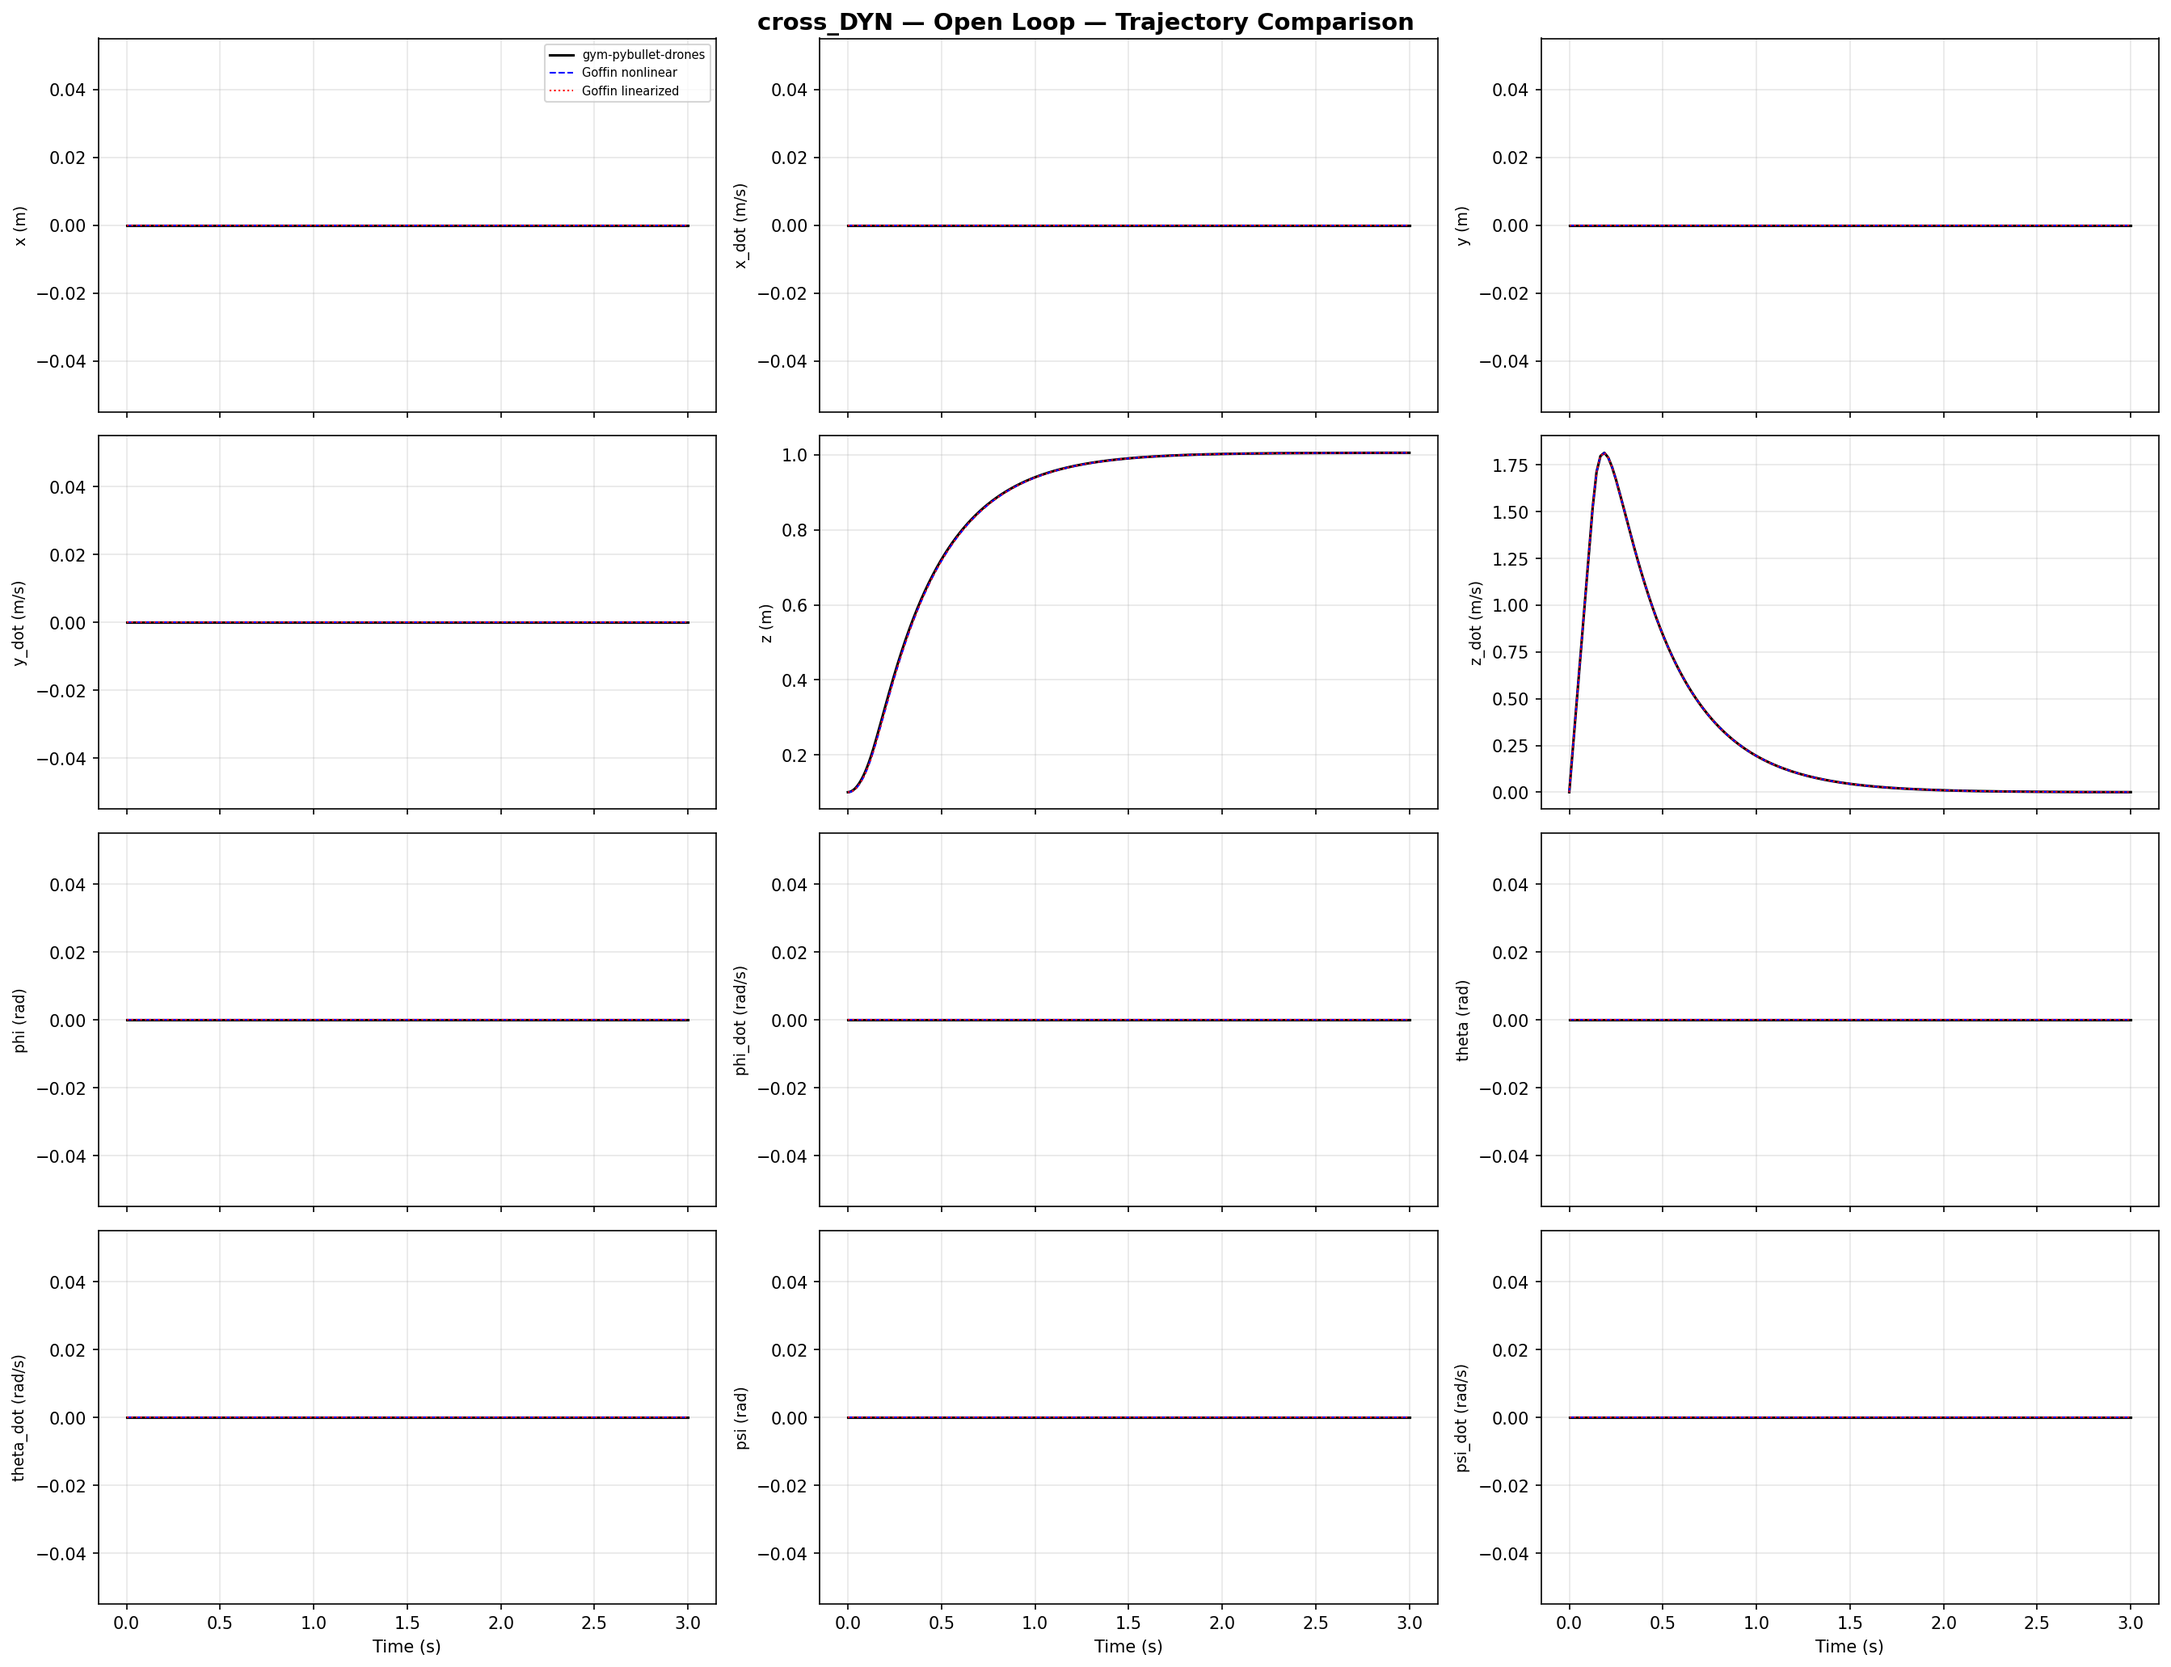
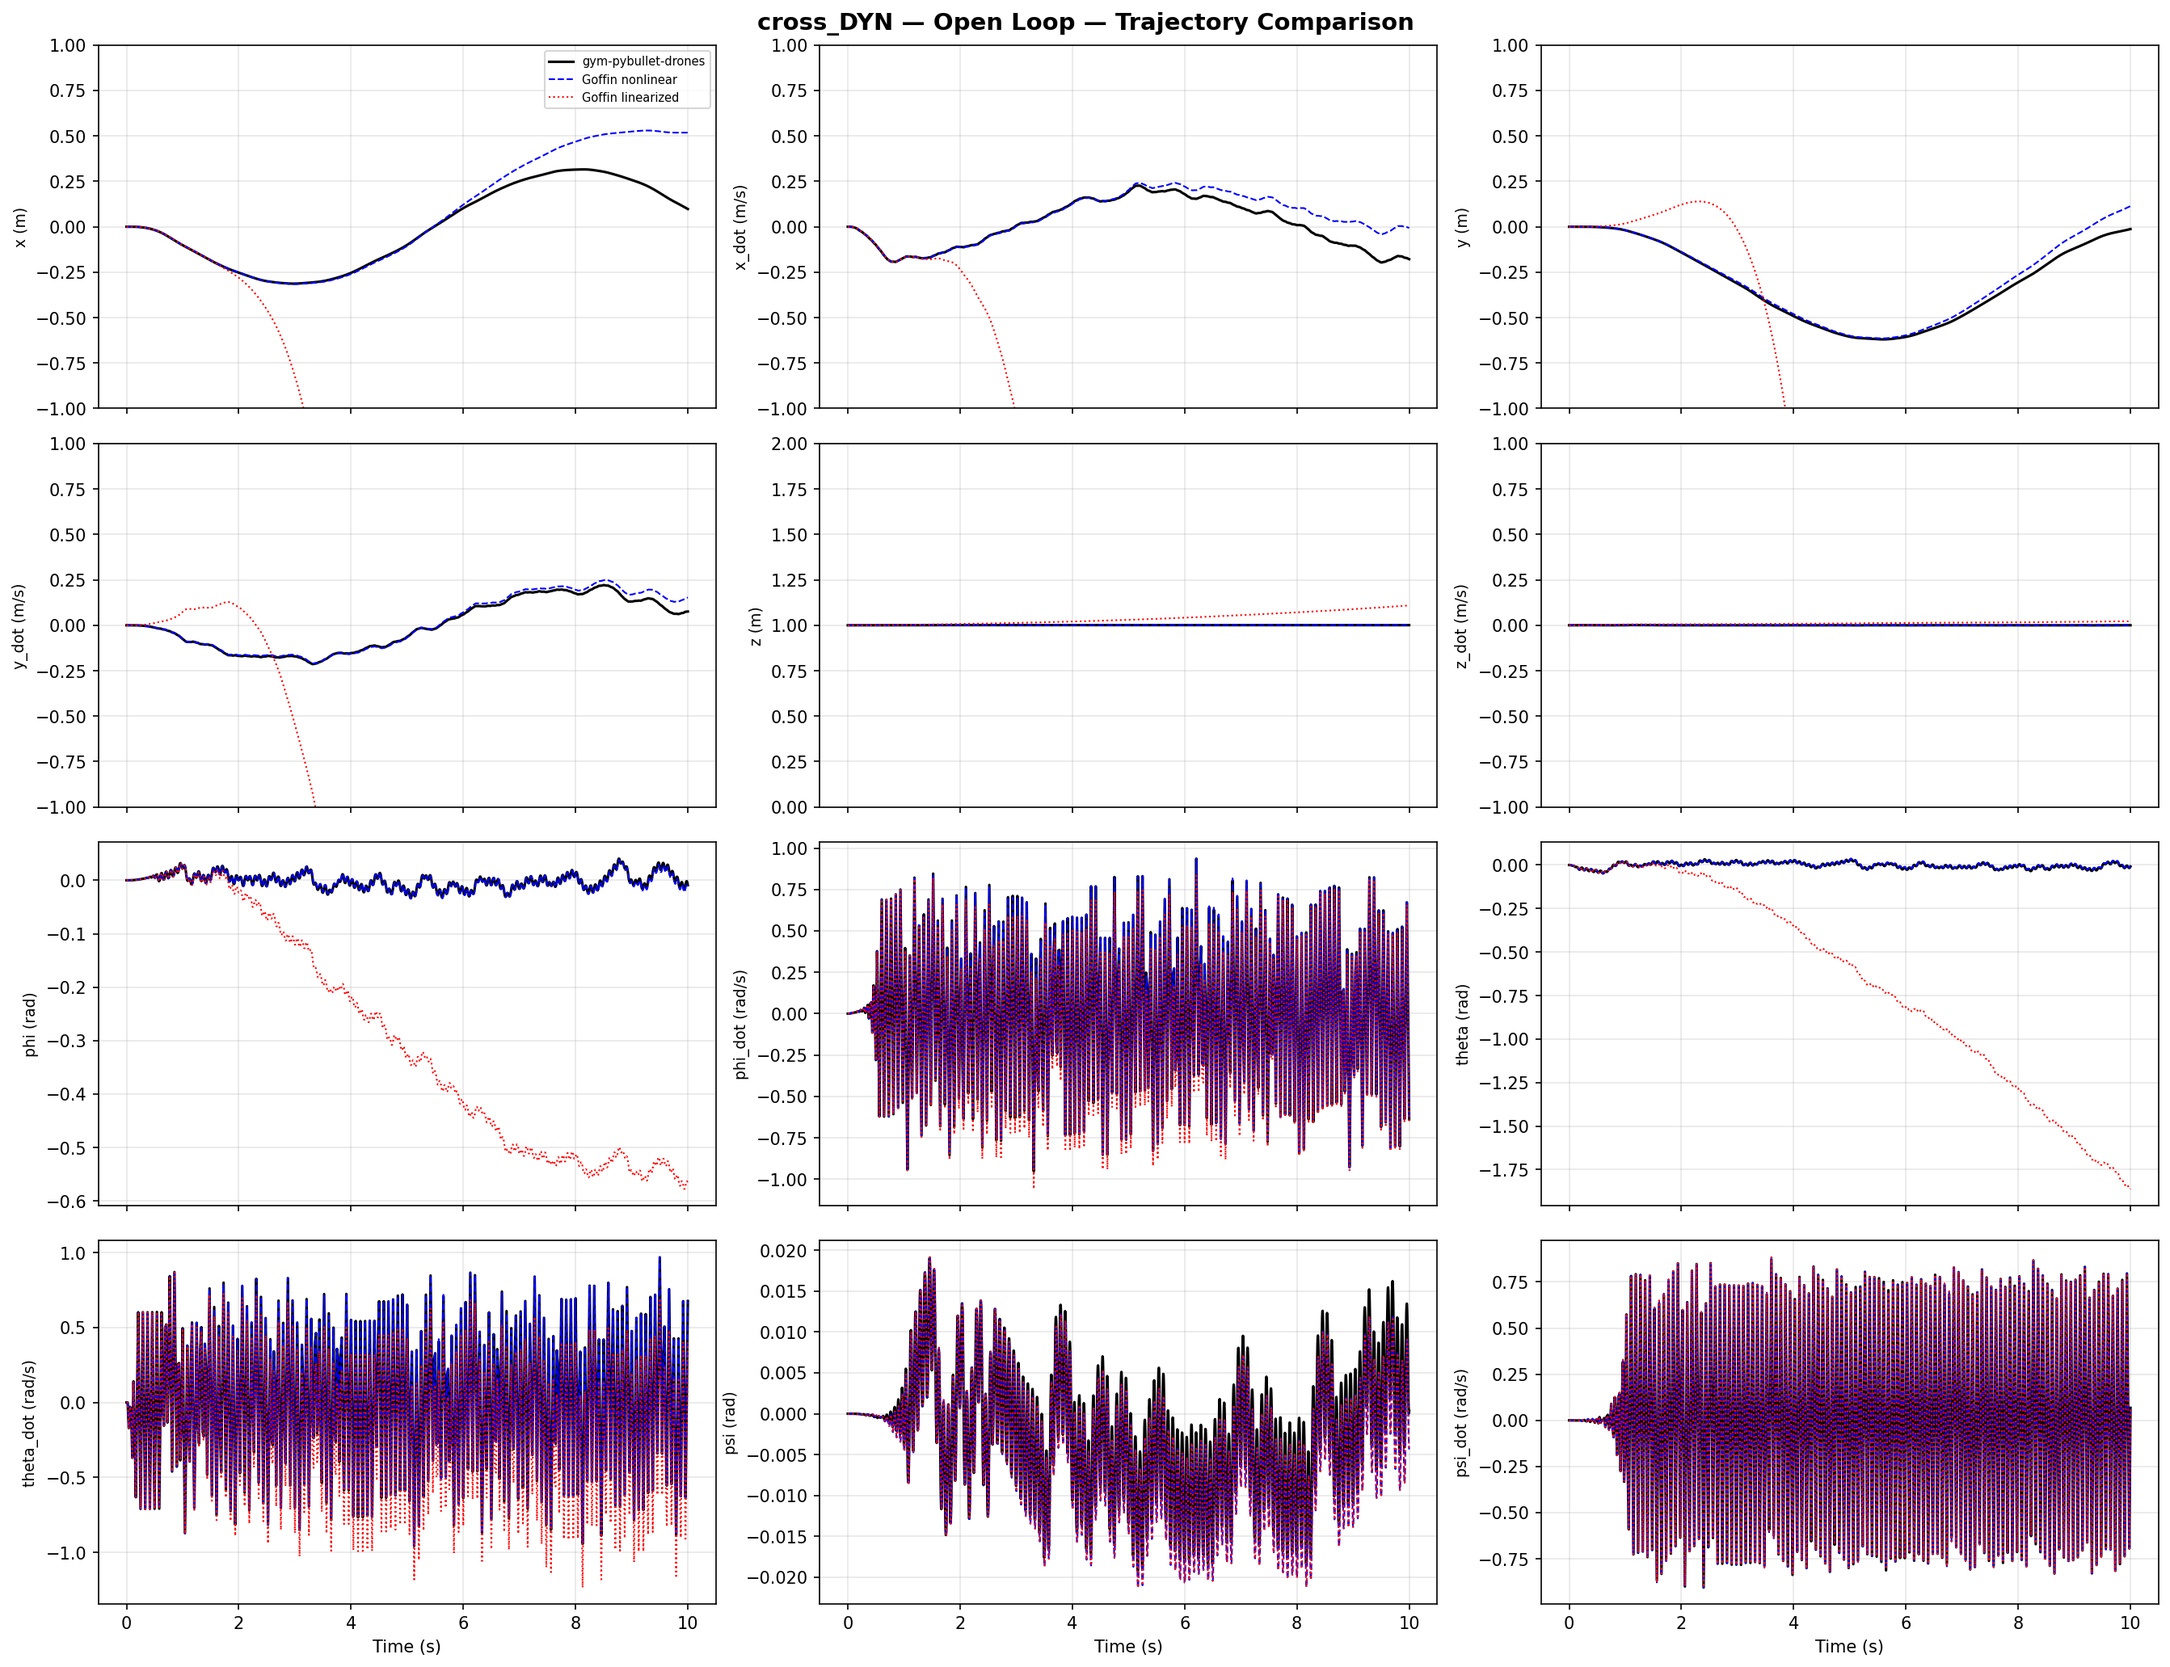
new y scale in plots to see the linear approx

diff --git a/run_dynamics_comparison.py b/run_dynamics_comparison.py
@@ -242,9 +242,13 @@ def plot_trajectory_comparison(time_vec, ref_states, goffin_nl, goffin_lin,
         ax = axes[i // 3, i % 3]
         ax.plot(time_vec, ref_states[:, i], 'k-', linewidth=1.5, label='gym-pybullet-drones')
         ax.plot(time_vec, goffin_nl[:, i], 'b--', linewidth=1.0, label='Goffin nonlinear')
-        #ax.plot(time_vec, goffin_lin[:, i], 'r:', linewidth=1.0, label='Goffin linearized')
+        ax.plot(time_vec, goffin_lin[:, i], 'r:', linewidth=1.0, label='Goffin linearized')
         ax.set_ylabel(labels[i], fontsize=9)
         ax.grid(True, alpha=0.3)
+        if i in {0, 1, 2, 3, 5}:
+            ax.set_ylim(-1, 1)
+        if i==4:
+            ax.set_ylim(0, 2)
         if i == 0:
             ax.legend(fontsize=7, loc='upper right')
 
@@ -282,8 +286,8 @@ def plot_error_comparison(time_vec, errors_nl, errors_lin,
         for idx in indices:
             ax.plot(time_vec, np.maximum(errors_nl[:, idx], EPS), '-', linewidth=1.0,
                     label=f'NL: {labels[idx]}')
-            #ax.plot(time_vec, np.maximum(errors_lin[:, idx], EPS), ':', linewidth=1.0,
-            #        label=f'Lin: {labels[idx]}')
+            ax.plot(time_vec, np.maximum(errors_lin[:, idx], EPS), ':', linewidth=1.0,
+                    label=f'Lin: {labels[idx]}')
         ax.set_title(group_name, fontsize=11)
         ax.set_ylabel('Absolute error')
         ax.set_yscale('log')
